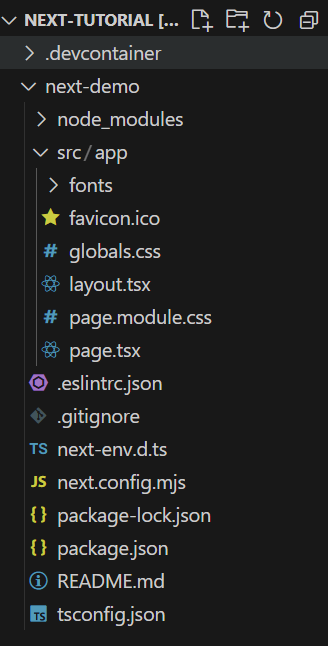
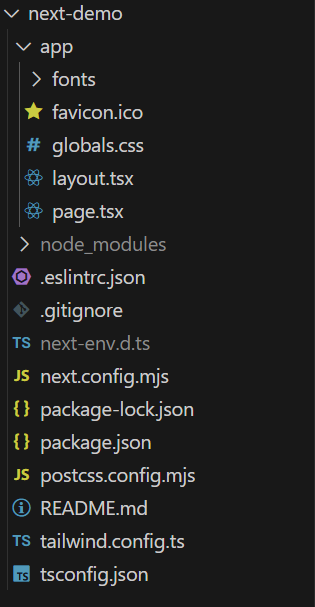
install corrections

diff --git a/_pages/code_example.md b/_pages/code_example.md
@@ -1,9 +1,15 @@
 ---
-title: Basic code example
+title: Basic code examples
 layout: post
 filename: code_example.md
 --- 
 
-# Tutorial on a simple code
+## Introduction
 
-this is an example of code.
+In this tutorial, we will assume that you have basic knowledge of HTML, CSS, Typescript and React in order to focus ont the specificities of Next.js.
+
+https://nextjs.org/learn/dashboard-app/
+
+## Using Tailwind CSS
+
+## Optimazing fonts and images

diff --git a/_pages/b_install_tutorial.md b/_pages/b_install_tutorial.md
@@ -50,6 +50,7 @@ First, you will need to run the command "npx create-next-app@latest" in the term
 
 Then, Next will ask you several questions before installing. Name your project "next-demo" and answer as the following :
 ![](/docs/assets/images/questions-asked.png)
+Tailwind CSS is a CSS framework that is often used with Next.js.
 
 Once the installation is complete, the file tree will look like this :
 ![](/docs/assets/images/file-tree-next.png)
